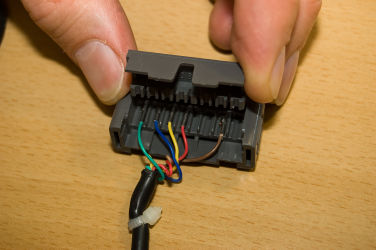
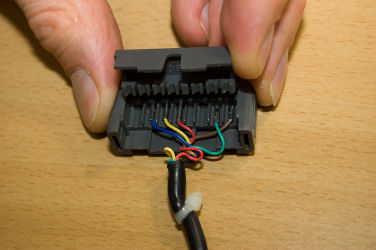
Added connector modification instructions.

diff --git a/README.md b/README.md
@@ -93,14 +93,19 @@ requirements:
 
 #### Connector modification instructions ####
 
-Make sure that you're cutting the detends on the right side of the
-connectors:
+Make sure that you're cutting the retention hooks on the right side of
+the connectors:
 
 ![Connector modification 1](hardware/images/instructions/connector-modification-01-small.jpg?raw=true)
 
 ![Connector modification 2](hardware/images/instructions/connector-modification-02-small.jpg?raw=true)
 
+Now use a pair of pliers to push in the retention hooks on the opposite
+side of the plug:
+
 ![Connector modification 3](hardware/images/instructions/connector-modification-03-small.jpg?raw=true)
+
+Then push the plug out of its shell:
 
 ![Connector modification 4](hardware/images/instructions/connector-modification-04-small.jpg?raw=true)
 
@@ -108,13 +113,17 @@ connectors:
 
 ![Connector modification 6](hardware/images/instructions/connector-modification-06-small.jpg?raw=true)
 
-Modified cable for port1:
+Original pin assignment:
 
 ![Connector modification 7](hardware/images/instructions/connector-modification-07-small.jpg?raw=true)
 
-Modified cable for port0:
+Modified cable for port1:
 
 ![Connector modification 8](hardware/images/instructions/connector-modification-08-small.jpg?raw=true)
+
+Modified cable for port0:
+
+![Connector modification 9](hardware/images/instructions/connector-modification-09-small.jpg?raw=true)
 
 For images in higher resolution click [here](hardware/images/instructions/).
 
